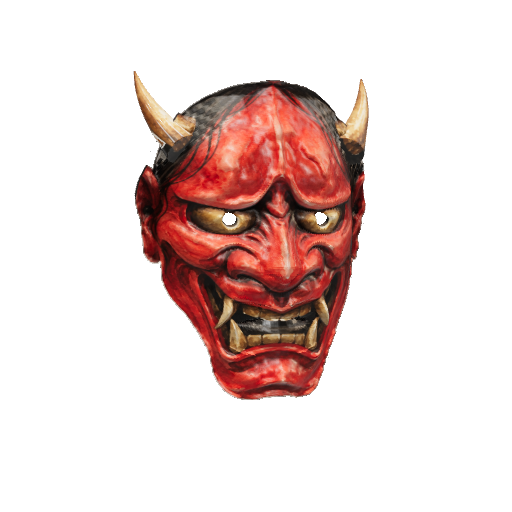
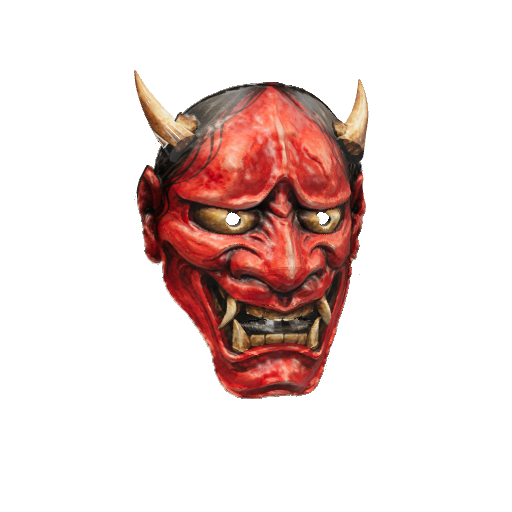
Keep mask mouths shut, remove sound, match Ko-omote, Chujo and Saru to their paintings
- Face skinning leaves out the lips and jaw, so opening your mouth no longer opens the mask
- Remove the synthesised drum/clapper sounds and the sound button
- Ko-omote: tall forehead at the painting's own proportions (texture span 24 -> 30 cm)
- Chujo: broad rounded nose with wide wings, as painted
- Saru: red ears and side flaps as forward-facing parts painted from the reference
- Smooth the head surface beyond the face model (no diamond terraces)

Changed region(s): [[0.25, 0.125, 0.7188, 0.7812], [0.6875, 0.1562, 0.7188, 0.2188]]

diff --git a/js/masks.js b/js/masks.js
@@ -40,12 +40,14 @@ const refSrc = (id) => new URL(`../assets/refs/${id}.jpg`, import.meta.url).href
 const relief = (def) => ({ k: 'fn', fn: (x, y) => def.photoData.relief(x, y) });
 const PHOTO_LOOK = { grimeK: 0.12, wearK: 0, mottle: 0, crack: 0, grain: 0.08, bump: 1.4 };
 // A thin shell standing off the face (a fox ear), painted from the reference where it sits.
-function photoShell(group, { H, THREE }, P, mat, { x0, x1, y0, y1, lean = 0.25, cup = 0.4, from = 10.5, back = 0.35 }){
+// `flatAt`: take the depth at that x across the whole width, so the part faces forward
+// instead of following the head round (the monkey's ears).
+function photoShell(group, { H, THREE }, P, mat, { x0, x1, y0, y1, lean = 0.25, cup = 0.4, from = 10.5, back = 0.35, flatAt = null }){
   const geo = new THREE.PlaneGeometry(x1 - x0, y1 - y0, 40, 60);
   const pos = geo.attributes.position, xc = (x0 + x1) / 2, hw = (x1 - x0) / 2;
   for (let i = 0; i < pos.count; i++){
     const x = pos.getX(i) + xc, y = pos.getY(i) + (y0 + y1) / 2;
-    const z = H.h(x, Math.min(y, from)) - back - Math.max(0, y - from) * lean - cup * (1 - ((x - xc) / hw) ** 2);
+    const z = H.h(flatAt ?? x, Math.min(y, from)) - back - Math.max(0, y - from) * lean - cup * (1 - ((x - xc) / hw) ** 2);
     pos.setXYZ(i, x, y, z);
   }
   geo.computeVertexNormals();
@@ -171,7 +173,11 @@ const CHUJO = {
     relief(CHUJO),
     ...sym(line([[0.35, 4.0], [0.9, 5.0], [2.3, 4.9], [4.5, 4.1]], 0.4, 0.45)),
     ...eyes({ socket: -0.5, lid: 0.22, rx: 0.5, ry: 0.18 }),
-    ...nose({ a: 1.9, w: 0.65, tip: 1.4, tipY: -1.4, top: 4.4, wing: 0.7, wingX: 1.5, tipA: 0.9, holes: false }),
+    // the broad, rounded nose of the painting: a full bulb over wide wings, nostrils tucked under
+    line([[0, 4.4], [0, 2.6], [0, 0.6], [0, -1.5]], [0.75, 1.5], [0.3, 1.35], { taper: 0.1 }),
+    blob(0, -1.2, 1.3, 0.95, 1.0),
+    ...sym(blob(1.75, -1.3, 0.8, 0.72, 0.75)),
+    ...sym(blob(1.35, -1.95, 0.4, 0.17, -0.35)),
     ...cheeks(0.45, 3.9, -1.3, 1.7),
     line([[-1.5, -4.15], [-0.8, -4.3], [0, -4.35], [0.8, -4.3], [1.5, -4.15]], 0.32, -0.7),
     blob(0, -7.5, 1.5, 1.2, 0.35),
@@ -185,13 +191,13 @@ const CHUJO = {
 const KOOMOTE = {
   id: 'koomote', seed: 31,
   photo: {
-    src: refSrc('koomote'), eyes: [[455, 590], [785, 590]], top: 12, topY: 11.9, chin: 1220, chinY: -9.5, relief: [1.8, 2.2],
+    src: refSrc('koomote'), eyes: [[455, 590], [785, 590]], top: 12, topY: 13.77, chin: 1220, chinY: -9.5, relief: [1.8, 2.2], // topY keeps the tall forehead at the painting's own proportions
     patches: [
       { x: 228, y: 498, rx: 16, ry: 50, from: [150, 640] }, { x: 262, y: 498, rx: 13, ry: 48, from: [272, 420] },
       { x: 1014, y: 492, rx: 16, ry: 50, from: [1110, 640] }, { x: 984, y: 492, rx: 13, ry: 48, from: [975, 420] },
     ],
   },
-  outline: { rx: 8.0, top: 12.55, bot: 9.4, chin: 0.25, n: 2.3 },
+  outline: { rx: 8.0, top: 14.6, bot: 9.4, chin: 0.25, n: 2.3 },
   look: { skin: '#eed0a6', grime: '#93683f', wear: '#fff2de', rough: 0.48, clearcoat: 0.15, ccRough: 0.45, ...PHOTO_LOOK },
   features: () => [
     relief(KOOMOTE),
@@ -237,6 +243,7 @@ const SARU = {
   id: 'saru', seed: 113,
   photo: {
     src: refSrc('saru'), eyes: [[315, 600], [540, 602]], eyeSpan: 5.3, top: 100, topY: 11.6, chin: 1112, chinY: -9.6, relief: [2.0, 2.6],
+    clear: [[30, 300, 160, 760], [695, 300, 825, 760]],
     patches: [
       { x: 60, y: 426, rx: 16, ry: 20, from: [20, 640] }, { x: 94, y: 426, rx: 14, ry: 17, from: [100, 520] },
       { x: 792, y: 430, rx: 14, ry: 20, from: [835, 640] }, { x: 764, y: 430, rx: 14, ry: 17, from: [755, 520] },
@@ -255,6 +262,13 @@ const SARU = {
     blob(0, -7.9, 2.0, 1.0, 0.35),
   ],
   paint(g){ drawPhoto(g, SARU.photoData); },
+  extras(group, ctx){
+    const P = SARU.photoData, mat = photoMaterial(ctx.THREE, P, { roughness: 0.55 });
+    for (const [a, b] of [[48, 140], [713, 805]]){ // the red ears and the flaps under them, from the painting
+      const [x0] = P.toCm(a, 0), [x1] = P.toCm(b, 0), [, y1] = P.toCm(0, 320), [, y0] = P.toCm(0, 740);
+      photoShell(group, ctx, P, mat, { x0, x1, y0, y1, from: 99, cup: -0.25, back: 0.6, flatAt: Math.sign(x0) * 7.2 });
+    }
+  },
 };
 
 export const DEFS = { kojo: KOJO, chujo: CHUJO, koomote: KOOMOTE, hannya: HANNYA, buaku: BUAKU, usofuki: USOFUKI, saru: SARU, kitsune: KITSUNE };

diff --git a/js/app.js b/js/app.js
@@ -8,7 +8,6 @@
 import { MASKS, BY_ID } from './data.js';
 import { scan, stopScan } from './scan.js';
 import * as Stage from './stage.js';
-import { sound } from './sound.js';
 
 const $ = (id) => document.getElementById(id);
 const q = new URLSearchParams(location.search);
@@ -17,7 +16,6 @@ const store = {
   set(k, v){ try { localStorage.setItem('noh.' + k, JSON.stringify(v)); } catch { /* private mode */ } },
 };
 const S = { phase: 'scan', mask: BY_ID[q.get('mask')] ? q.get('mask') : store.get('mask', 'hannya'), photoUrl: null, hintTimer: 0 };
-sound.on = store.get('sound', true);
 
 const overlay = (id, on) => $(id).classList.toggle('on', on);
 const show = (id) => document.querySelectorAll('.screen').forEach((s) => s.classList.toggle('on', s.id === id));
@@ -45,7 +43,6 @@ async function openPerm(){
   show('perm');
 }
 async function askCamera(){
-  sound.unlock();
   $('permBtn').disabled = true;
   $('permStatus').textContent = 'Waiting for you to tap “Allow”…';
   try {
@@ -83,7 +80,7 @@ function onFound(){
   if (S.phase !== 'scan') return;
   S.phase = 'intro';
   overlay('guide', false);
-  sound.unlock(); sound.found(); buzz(40);
+  buzz(40);
   overlay('found', true);
   setTimeout(() => { overlay('found', false); openIntro(); }, 1300);
 }
@@ -100,7 +97,6 @@ function openIntro(){
 
 // The tap is the moment the browser asks for the selfie camera.
 async function startMasks(preview = false){
-  sound.unlock();
   $('goBtn').disabled = true;
   try {
     if (preview) Stage.startPreview($('ar'), { onFace });
@@ -152,10 +148,9 @@ async function select(id, { quiet = false } = {}){
   $('ncBlurb').textContent = m.blurb;
   $('namecard').classList.remove('pop'); void $('namecard').offsetWidth; $('namecard').classList.add('pop');
   overlay('carving', true);
-  if (!quiet){ sound.clack(); buzz(15); }
+  if (!quiet) buzz(15);
   await Stage.wear(id);
   overlay('carving', false);
-  sound.pon(0.9 + (m.n % 4) * 0.08);
   setHint();
 }
 
@@ -182,7 +177,7 @@ function onFace(has){ overlay('faceGuide', !has && S.phase === 'wear'); }
 
 async function takePhoto(){
   if (Stage.isBuilding()) return;
-  sound.shutter(); buzz(30);
+  buzz(30);
   $('flash').classList.remove('on'); void $('flash').offsetWidth; $('flash').classList.add('on');
   const blob = await Stage.snapshot();
   if (!blob) return;
@@ -201,9 +196,6 @@ async function takePhoto(){
 }
 
 // ------------------------------------------------------------ wiring
-// Sound needs a tap before it can play, so it unlocks on the first touch anywhere.
-addEventListener('pointerdown', () => sound.unlock(), { once: true, capture: true });
-
 $('permBtn').addEventListener('click', askCamera);
 $('scanRetry').addEventListener('click', openScan);
 $('scanSkip').addEventListener('click', () => { stopScan(); overlay('guide', false); openIntro(); });
@@ -211,12 +203,6 @@ $('goBtn').addEventListener('click', () => startMasks(false));
 $('previewBtn').addEventListener('click', () => startMasks(true));
 $('closeBtn').addEventListener('click', () => { clearInterval(S.hintTimer); overlay('hud', false); overlay('faceGuide', false); openScan(); });
 $('factBtn').addEventListener('click', () => { const m = BY_ID[S.mask]; toast(`<span class="cap">Did you know?</span><br>${m.fact}`, 6000); });
-$('soundBtn').addEventListener('click', () => {
-  sound.on = !sound.on; store.set('sound', sound.on);
-  $('soundBtn').classList.toggle('off', !sound.on);
-  sound.unlock(); sound.clack();
-});
-$('soundBtn').classList.toggle('off', !sound.on);
 $('shutter').addEventListener('click', takePhoto);
 $('photoBack').addEventListener('click', () => show(null));
 $('errBtn').addEventListener('click', () => { $('err').hidden = true; location.reload(); });

diff --git a/js/face-fit.js b/js/face-fit.js
@@ -5,12 +5,14 @@
 //    millimetres in front of it, instead of a generic egg.
 // 2. Follow: every vertex of a built mask is tied to its nearest face landmarks. Each
 //    frame the landmarks' live positions (your face's own shape, jaw, cheeks) move the
-//    vertices with them, so the mask stretches with your face and opens with your mouth.
+//    vertices with them, so the mask stretches with your face. A carved mask has a
+//    fixed mouth, so the lips and jaw are left out: talking or opening your mouth does
+//    not open the mask.
 
 import { positions as LM, faces } from './face-model.js';
 
 // ------------------------------------------------------------------ 1 · the face surface
-const SPAN = 22, N = 176, CELL = SPAN / N; // a depth map of the face over x, y in [-11, 11] cm
+const SPAN = 30, N = 240, CELL = SPAN / N; // a depth map of the face over x, y in [-15, 15] cm
 function rasterise(){
   const z = new Float32Array(N * N).fill(-Infinity);
   const toG = (v) => (v + SPAN / 2) / CELL - 0.5;
@@ -31,6 +33,7 @@ function rasterise(){
   // beyond the face (hairline, under the chin, past the cheeks) continue the surface outward
   const known = new Uint8Array(N * N);
   for (let k = 0; k < N * N; k++) known[k] = z[k] > -Infinity ? 1 : 0;
+  const face = Float32Array.from(known);
   for (let pass = 0; pass < N; pass++){
     let changed = 0;
     const next = z.slice(), nk = known.slice();
@@ -50,7 +53,7 @@ function rasterise(){
     z.set(next); known.set(nk);
     if (!changed) break;
   }
-  return z;
+  return { z, face };
 }
 function blur(src, r){
   let a = Float32Array.from(src), b = new Float32Array(N * N);
@@ -66,7 +69,14 @@ function blur(src, r){
   }
   return a;
 }
-const RAW = rasterise();
+// The fill steps out cell by cell, which leaves faint diamond-shaped terraces; off the
+// face (the head above a tall mask, the sides) a heavy blur takes them out.
+const RAW = (() => {
+  const { z, face } = rasterise();
+  const B = blur(z, 16), w = blur(face, 4);
+  for (let k = 0; k < N * N; k++){ const t = Math.min(1, 2 * w[k]); z[k] = z[k] * t + B[k] * (1 - t); }
+  return z;
+})();
 // Smoothed by about 1.5 cm: the shell bridges the eyes and the nose (the carving adds
 // its own nose), but follows the forehead, cheeks, jaw and chin.
 const SMOOTH = blur(RAW, 6), FLAT = blur(RAW, 16);
@@ -91,7 +101,10 @@ const EYELIDS = new Set([33, 7, 163, 144, 145, 153, 154, 155, 133, 173, 157, 158
   263, 249, 390, 373, 374, 380, 381, 382, 362, 398, 384, 385, 386, 387, 388, 466,
   130, 25, 110, 24, 23, 22, 26, 112, 243, 190, 56, 28, 27, 29, 30, 247,
   359, 255, 339, 254, 253, 252, 256, 341, 463, 414, 286, 258, 257, 259, 260, 467]);
-const USE = LM.map((_, i) => i).filter((i) => !EYELIDS.has(i));
+// Lips and jaw are left out too: everything below the base of the nose. The lower part
+// of the mask then follows the nose and cheeks, which stay put when the mouth opens.
+const JAW_Y = -2.2;
+const USE = LM.map((_, i) => i).filter((i) => !EYELIDS.has(i) && LM[i][1] > JAW_Y);
 const K = 6, SIGMA = 1.1;
 
 // Ties every vertex of every mesh in the mask to its K nearest landmarks.

diff --git a/js/photo.js b/js/photo.js
@@ -9,7 +9,7 @@
 
 import { SPAN } from './sculpt.js';
 
-const N = 256, CELL = SPAN / N;
+const N = 320, CELL = SPAN / N;
 
 function loadImage(src){
   return new Promise((ok, fail) => { const i = new Image(); i.onload = () => ok(i); i.onerror = () => fail(new Error('could not load ' + src)); i.src = src; });
@@ -40,7 +40,8 @@ function blur(a, n, r){
 }
 
 // spec: { src, eyes: [[px,py],[px,py]], chin: py (→ chinY cm), top: py, paper: tolerance,
-//         patches: [{ x, y, rx, ry, from: [px,py] }] (paint over bits, e.g. cords), relief: [fine, broad] }
+//         patches: [{ x, y, rx, ry, from: [px,py] }] (paint over bits, e.g. cords), relief: [fine, broad],
+//         clear: [[x0,y0,x1,y1]] (boxes where all paper colour is cut away) }
 export async function loadPhoto(spec){
   const img = await loadImage(spec.src);
   const W = img.naturalWidth, H = img.naturalHeight;
@@ -78,6 +79,9 @@ export async function loadPhoto(spec){
     if (x > 0) stack.push(p - 1); if (x < W - 1) stack.push(p + 1);
     if (p >= W) stack.push(p - W); if (p < W * (H - 1)) stack.push(p + W);
   }
+  // `clear` boxes: there any paper colour goes, even pockets the flood cannot reach (the
+  // gaps between the monkey's ears and its head)
+  for (const [bx0, by0, bx1, by1] of spec.clear || []) for (let y = by0; y < by1; y++) for (let x = bx0; x < bx1; x++) if (near[y * W + x]) out[y * W + x] = 1;
   for (let p = 0, o = 0; p < W * H; p++, o += 4){
     if (!out[p]){ d[o + 3] = 255; continue; }
     d[o + 3] = Math.max(0, Math.min(255, (dist[p] - tol * 0.8) / (tol * 0.6) * 255));

diff --git a/index.html b/index.html
@@ -98,7 +98,6 @@
     <div class="iconcol">
       <button class="iconbtn" id="closeBtn" aria-label="Back to the card"><svg viewBox="0 0 24 24" width="22" height="22" aria-hidden="true"><path d="M6 6l12 12M18 6L6 18" stroke="currentColor" stroke-width="2.6" stroke-linecap="round"/></svg></button>
       <button class="iconbtn" id="factBtn" aria-label="Did you know?"><svg viewBox="0 0 24 24" width="22" height="22" aria-hidden="true"><circle cx="12" cy="12" r="9.5" fill="none" stroke="currentColor" stroke-width="2.2"/><path d="M12 10.5v6" stroke="currentColor" stroke-width="2.6" stroke-linecap="round"/><circle cx="12" cy="7.2" r="1.5" fill="currentColor"/></svg></button>
-      <button class="iconbtn" id="soundBtn" aria-label="Sound"><svg viewBox="0 0 24 24" width="22" height="22" aria-hidden="true"><path d="M4 9h4l5-4v14l-5-4H4z" fill="currentColor"/><path id="soundWaves" d="M16 8.5a5 5 0 0 1 0 7M18.5 6a8.5 8.5 0 0 1 0 12" fill="none" stroke="currentColor" stroke-width="2" stroke-linecap="round"/></svg></button>
     </div>
   </div>
 

diff --git a/js/stage.js b/js/stage.js
@@ -14,8 +14,8 @@ import { BY_ID } from './data.js';
 import { bindToFace, followFace } from './face-fit.js';
 
 const CACHE_MAX = 3; // built masks kept on the GPU
-// Phones carve with 768 px textures: about half the time of 1024, and still sharp at arm's length.
-const TEX_SIZE = Math.min(screen.width, screen.height) < 600 || (navigator.deviceMemory || 8) <= 4 ? 768 : 1024;
+// Phones carve with 896 px textures: about half the time of 1280, and still sharp at arm's length.
+const TEX_SIZE = Math.min(screen.width, screen.height) < 600 || (navigator.deviceMemory || 8) <= 4 ? 896 : 1280;
 
 const R = {
   mode: null, container: null, mindar: null, renderer: null, scene: null, camera: null,

diff --git a/js/sculpt.js b/js/sculpt.js
@@ -9,7 +9,7 @@
 
 import { shellZ, faceZ } from './face-fit.js';
 
-export const SPAN = 24;          // the textures cover x and y from -12 to 12 cm
+export const SPAN = 30;          // the textures cover x and y from -15 to 15 cm (Ko-omote is tall)
 export const EYE = { x: 3.18, y: 2.63 };
 
 const TAU = Math.PI * 2;
@@ -152,7 +152,7 @@ export const insideOutline = (O, x, y) => {
 };
 
 // ------------------------------------------------------------------ painting
-export const TEX = 1024;
+export const TEX = 1280;
 // A 2D context drawing in centimetres with y up, over the whole texture.
 export function canvas2d(size = TEX, fill = null){
   const c = document.createElement('canvas');

diff --git a/css/app.css b/css/app.css
@@ -103,7 +103,6 @@ a.btn{display:inline-flex;align-items:center;justify-content:center;text-decorat
 .iconbtn{width:46px;height:46px;border:0;border-radius:50%;background:var(--glass);color:var(--anatomy-strong);display:grid;place-items:center;
   box-shadow:var(--anatomy-lift),0 0 0 1px var(--anatomy-mid)}
 .iconbtn:active{transform:scale(.94)}
-.iconbtn.off #soundWaves{opacity:.15}
 
 .faceguide{position:absolute;inset:0;display:none;flex-direction:column;align-items:center;justify-content:center;gap:14px}
 #faceGuide.on{display:flex}

diff --git a/tools/compare.html b/tools/compare.html
@@ -15,7 +15,7 @@ import { buildMask } from '../js/build.js';
 import { setupLook } from '../js/look.js';
 
 const ids = new URLSearchParams(location.search).get('id')?.split(',') || Object.keys(DEFS);
-const S = 420;
+const S = +(new URLSearchParams(location.search).get("s") || 420);
 const out = document.createElement('canvas');
 out.width = S * 2 * Math.min(2, ids.length); out.height = S * Math.ceil(ids.length / 2);
 document.body.appendChild(out);

diff --git a/README.md b/README.md
@@ -18,7 +18,7 @@ same stage. Made for ages 8–14.
 3. **Welcome.** Once the card is found, a short card explains Noh, Kyogen and the activity. Tapping **Allow camera & start**
    starts the selfie camera. This is when the browser asks for camera permission.
 4. **Wear.** MindAR *face* tracking (MediaPipe Face Landmarker) follows your face. The
-   mask is pinned to the whole-face pose (MindAR's faceMatrix) and then *skinned* to the live face landmarks, like a Snapchat lens: it fits your face shape, sits 2–6 mm off the skin, and its mouth and chin move with yours.
+   mask is pinned to the whole-face pose (MindAR's faceMatrix) and then *skinned* to the live face landmarks, like a Snapchat lens: it fits your face shape and sits 2–6 mm off the skin. Like a real carved mask, its mouth stays shut when you talk or open yours: the lips and jaw are left out of the skinning.
    The masks are carved in MindAR's own canonical face units (centimetres), so the eye
    holes sit over your real eyes. Pick a mask from the tray at the bottom.
 5. **Tilt.** The cue under the name panel invites you to tilt your head up and down, the
@@ -37,7 +37,7 @@ same stage. Made for ages 8–14.
 | 07 | **Saru** | 猿 | Kyogen | monkey | an olive fur cap with a widow's peak and fur down the sides, a beige face, red-rimmed round eyes, a split muzzle and a wide smile, red ears |
 | 08 | **Kitsune** | 狐 | Kyogen | fox | weathered cream lacquer, a red flame on the brow, red-lined amber eyes, black whiskers, a black nose, a curling red smile, tall ears with red insides |
 
-The look of each mask follows the reference paintings supplied for this project. **All eight masks are those paintings themselves** (`assets/refs/`): each is lined up so its pupils sit on the wearer's eyes, projected onto the carved shell from the front, and its light and shade carve the shell too, so from the front the mask is the painting and from the side it has depth. The paper is cut away, the cords are painted out, and Hannya's horns and the fox's ears are separate solids painted from the same picture (`js/photo.js`). Every fact in the app is sourced in [SOURCES.md](SOURCES.md).
+The look of each mask follows the reference paintings supplied for this project. **All eight masks are those paintings themselves** (`assets/refs/`): each is lined up so its pupils sit on the wearer's eyes, projected onto the carved shell from the front, and its light and shade carve the shell too, so from the front the mask is the painting and from the side it has depth. The paper is cut away, the cords are painted out, and Hannya's horns, the fox's ears and the monkey's ears are separate solids painted from the same picture (`js/photo.js`). Every fact in the app is sourced in [SOURCES.md](SOURCES.md).
 
 ### What makes them look real
 
@@ -53,10 +53,10 @@ No 3D model files are downloaded: each mask is built in the browser from its pai
   mapping and a studio environment for reflections.
 - **Room light.** Twice a second the camera image is sampled. Exposure and fill light
   then ease toward the room's brightness and colour, so the mask matches your lighting.
-- **Extra parts.** Hannya's horns and the fox's ears are separate solids, painted from
-  the same picture.
+- **Extra parts.** Hannya's horns, the fox's ears and the monkey's ears are separate
+  solids, painted from the same picture.
 
-Phones use 768 px textures, so a mask takes about a second to carve. The three most
+Phones use 896 px textures, so a mask takes about a second to carve. The three most
 recently used masks are kept ready.
 
 ## The Anatomy look
@@ -85,14 +85,13 @@ in the same sepia theme as Ramen_Builder:
 | File | What it is |
 |---|---|
 | `index.html` | The screens: viewfinder, welcome, mask room, photo. |
-| `js/app.js` | The flow: scan → welcome → camera → tray, plus hints, photo, sound and errors. |
+| `js/app.js` | The flow: scan → welcome → camera → tray, plus hints, photo and errors. |
 | `js/scan.js` | Card recognition (MindAR image). |
 | `js/stage.js` | Face AR (MindAR face): the mask pinned to the face pose, swapping masks, the no-camera preview, photos. |
 | `js/masks.js` | The eight mask designs: carving, paint, ORM, relief and extra parts. |
 | `js/sculpt.js` | Carving and painting tools: height features, outline, brushes, scrollwork. |
 | `js/build.js` | Turns a design into meshes and textures. Also has tapered tubes and hair ribbons. |
 | `js/look.js` | Lighting, environment, tone mapping and room-light matching. |
-| `js/sound.js` | Kotsuzumi drum, hyoshigi clappers and shutter, made with WebAudio. |
 | `js/data.js` | Names, kanji, roles, kid-friendly blurbs and facts. |
 | `tools/mask-sheet.html` | Renders every mask. `?id=hannya&yaw=0.5` shows one up close. `?save=1` rewrites `assets/thumbs/`. |
 | `tools/compare.html` | Renders each mask beside its reference painting from `tools/refs/<id>.jpg` (the references are kept out of git). |
